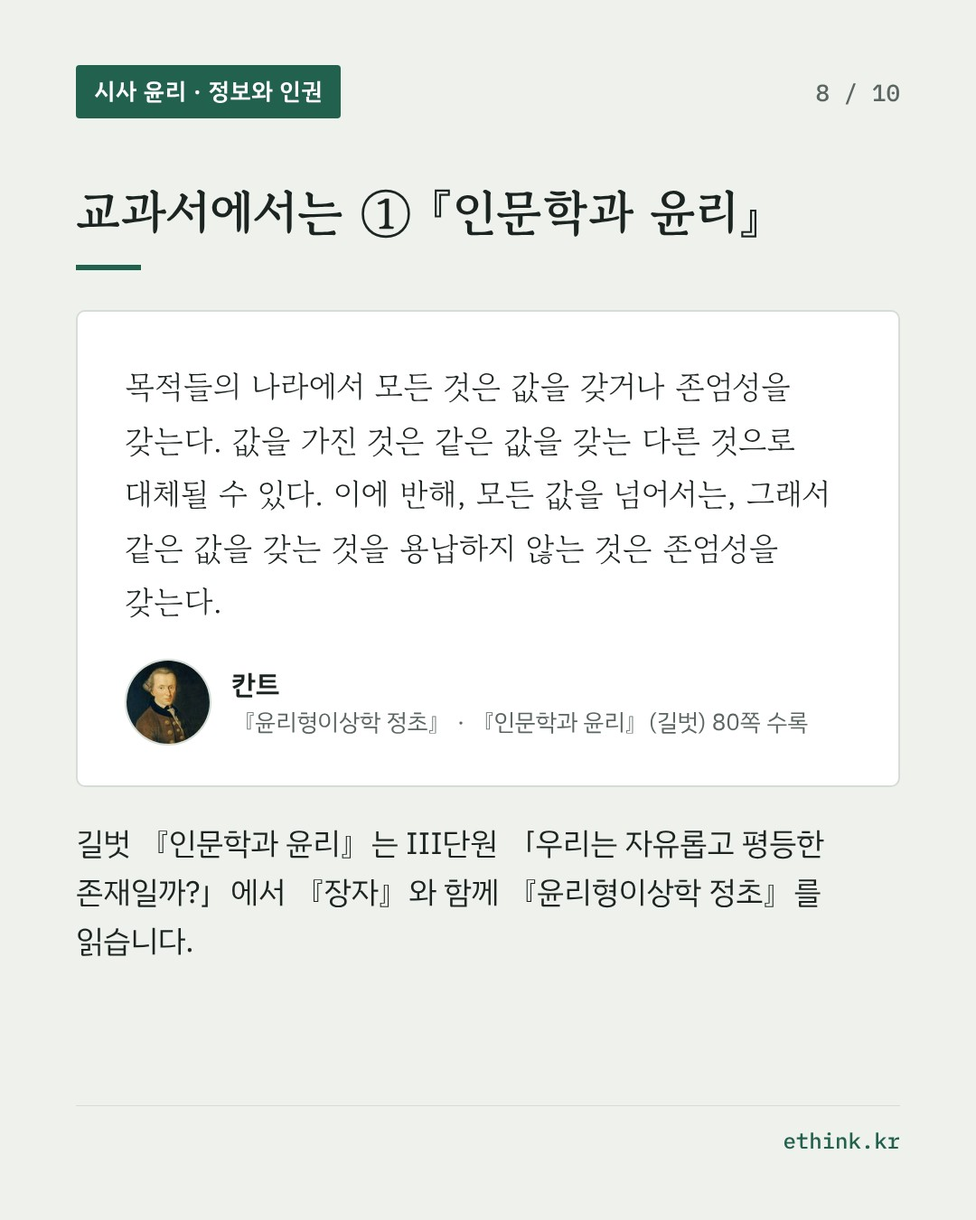
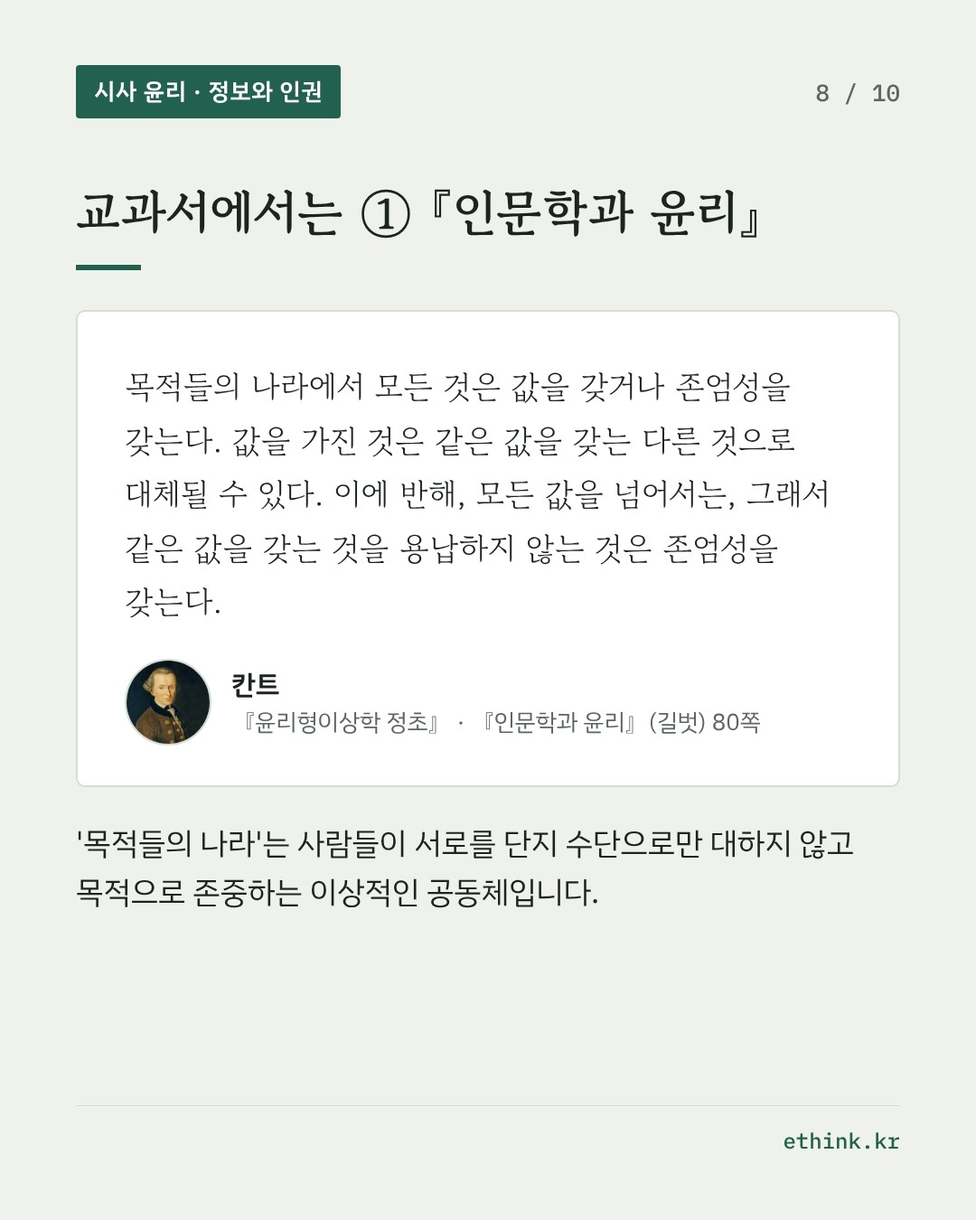
10.24 글 전면 수정(쉬운 문장, 사실 범위 구분, 도식 방향 표현 제거), 인용 출처는 번역서까지만·'수록' 삭제, 카드 10장 재제작(승인 전)
Claude-Session: https://claude.ai/code/session_015bQvLW38M9G43q7XUxVD63

Changed region(s): [[0.0611, 0.6844, 0.8556, 0.7778], [0.7944, 0.56, 0.825, 0.6222]]

diff --git a/assets/style.css b/assets/style.css
@@ -224,8 +224,9 @@ html { scroll-behavior: smooth; }
 .scale-cell-strong { outline: 2px solid var(--accent); outline-offset: -2px; }
 .scale-head { font-family: var(--font-display); font-weight: 700; font-size: var(--step-1); }
 .scale-ex { font-size: var(--step--1); color: var(--muted); }
+.scale-two { grid-template-columns: 1fr 1fr; }
 .scale-arrow { align-self: center; color: var(--accent); font-size: 1.25rem; }
-@media (max-width: 30rem) { .scale { grid-template-columns: 1fr; } .scale-arrow { transform: rotate(90deg); justify-self: center; } }
+@media (max-width: 30rem) { .scale, .scale-two { grid-template-columns: 1fr; } .scale-arrow { transform: rotate(90deg); justify-self: center; } }
 .tbl-wrap { overflow-x: auto; }
 .tbl { width: 100%; border-collapse: collapse; background: var(--surface); font-size: 0.9375rem; min-width: 26rem; }
 .tbl th, .tbl td { border: 1px solid var(--rule); padding: 0.55rem 0.7rem; text-align: left; vertical-align: top; word-break: keep-all; }

diff --git a/_items/2026-10-24/1.md b/_items/2026-10-24/1.md
@@ -16,80 +16,72 @@ sources:
     url: https://biz.sbs.co.kr/amp/article/20000340503
   - name: 뉴스핌 (10.16)
     url: https://www.newspim.com/news/view/20261016001208
-  - name: 데일리팜 (10.17)
+  - name: 데일리팜 (2014.10.17)
     url: https://m.dailypharm.com/user/news/134209
-  - name: 개인정보 보호법 시행령 제39조
-    url: https://itwiki.kr/w/%EA%B0%9C%EC%9D%B8%EC%A0%95%EB%B3%B4_%EB%B3%B4%ED%98%B8%EB%B2%95_%EC%8B%9C%ED%96%89%EB%A0%B9_%EC%A0%9C39%EC%A1%B0
+  - name: 개인정보 보호법 시행령 제39조 (국가법령정보센터)
+    url: https://www.law.go.kr/lsLinkProc.do?chrClsCd=010202&joLnkStr=%EC%98%81+%EC%A0%9C39%EC%A1%B0%EC%A0%9C1%ED%95%AD&joNo=003900000&lsId=011468&lsNm=%EA%B0%9C%EC%9D%B8%EC%A0%95%EB%B3%B4+%EB%B3%B4%ED%98%B8%EB%B2%95+%EC%8B%9C%ED%96%89%EB%A0%B9&mode=2
 og_image: /assets/og/2026-10-24-1.jpg
 ---
 ##### 무슨 일이 있었나
 
-10월 16일 국회 보건복지위원회의 국민건강보험공단 국정감사에서 공단의 개인정보 관리 문제가 다뤄졌습니다. 공단 직원 한 명이 약 2년 6개월 동안 건강보험 가입자와 그 가족(피부양자)의 정보를 외부에 넘기고 돈을 받은 사실이 드러나 7월에 파면되었습니다. 공단 측은 이 직원이 받은 돈이 "억대로 알고 있다"고 답했습니다. 사건은 아직 수사 중이고, 피해자에게는 석 달이 넘도록 유출 사실을 알리지 않았습니다.
+10월 16일 국회 보건복지위원회의 국민건강보험공단 국정감사에서 개인정보 관리 문제 세 가지가 나왔습니다.
 
-업무와 상관없이 가입자 정보를 들여다보는 무단 조회도 되풀이되고 있습니다. 2021년부터 올해 8월까지 무단 열람과 유출로 피해를 본 사람은 468명이고, 공단이 무단 조회를 알아채기까지 길게는 1,135일이 걸렸습니다. 2014년 국정감사에서는 한 직원이 헤어진 연인의 진료 내역을 113번 열어 본 사례가 지적되었습니다. 강청희 이사장은 업무 시간 중에 마음먹고 정보를 빼내는 경우는 잘 잡히지 않는다고 인정했습니다.
+**첫째, 정보를 외부에 넘기고 돈을 받은 직원이 있었습니다.** 공단 직원 한 명이 약 2년 6개월 동안 건강보험 가입자와 피부양자(가입자에게 생계를 의존하는 가족 등)의 정보를 외부에 넘기고 돈을 받은 혐의로 7월에 파면되었습니다. 공단 측은 받은 돈이 "억대로 알고 있다"고 답했습니다. 사건은 수사 중이고, 어떤 정보가 넘어갔는지는 아직 정확히 파악하지 못했다고 합니다.
+
+**둘째, 업무와 상관없이 정보를 들여다보는 무단 조회가 되풀이되었습니다.** 2021년부터 올해 8월까지 공단에서 무단 열람과 유출로 피해를 본 사람은 468명입니다. 이 숫자는 위의 직원 한 명이 아니라 여러 사건을 합친 것입니다. 일부 무단 조회는 처음 조회한 때부터 적발될 때까지 길게는 1,135일이 걸렸습니다. 강청희 이사장은 업무 시간에 마음먹고 정보를 빼내는 경우는 잘 잡히지 않는다고 인정했습니다. 2014년 국정감사에서는 한 직원이 헤어진 연인의 자격 조회 기록과 3년 치 요양급여 내역, 곧 병력과 소득이 드러나는 기록을 113번 열어 본 사례가 지적되었습니다.
+
+**셋째, 피해자에게 알리는 일이 늦어졌습니다.** 김기웅 의원은 수사 중이라는 이유로 석 달 넘게 피해자에게 통지가 이뤄지지 않았다고 지적했습니다. 공단은 피해 당사자가 아직 특정되지 않았다고 답했습니다.
 
 ##### 왜 윤리 문제인가
 
-건강보험공단에는 언제 어떤 병으로 병원에 갔는지, 무슨 수술을 받았는지까지 쌓여 있습니다. 이 정보는 우리가 맡길지 말지 고른 것이 아닙니다. 건강보험에 가입하면 저절로 쌓입니다. 「개인정보 보호법」 시행령은 유출을 알게 된 때부터 72시간 안에 그 정보의 본인에게 알리도록 정하고 있지만, 이번 사건의 피해자는 자기 정보가 새 나갔는지조차 모른 채 석 달을 보냈습니다.
+공단에는 가입자의 진료와 관련된 정보가 쌓입니다. 우리가 맡기기로 고른 것이 아니라, 건강보험 업무를 하는 과정에서 저절로 모이는 정보입니다. 이 정보를 몰래 열어 보거나 팔면, 당사자는 숨기고 싶은 사생활을 남에게 들키게 됩니다.
 
-이 사건이 던지는 물음은 이렇습니다. 감시가 닿지 않는 곳에서 볼 수 있는 권한을 가진 사람은, 그래도 보지 말아야 하는가. 이사장의 말처럼 업무 시간 중의 조회를 다 잡아낼 수 없다면, 남는 것은 들키지 않을 때에도 보지 않는 직원 한 사람 한 사람의 판단입니다. 이 물음은 2,400년 전 플라톤이 던졌고, 칸트는 들키느냐와 상관없이 무엇이 도덕적인 행동인지를 따졌습니다.
+법은 정보가 새 나간 것을 알게 되면 원칙적으로 72시간 안에 그 정보의 본인에게 알리도록 합니다(「개인정보 보호법 시행령」 제39조). 긴급한 조치가 필요하거나 부득이한 사정이 있으면 늦출 수 있습니다. 이번에 그런 사정이 있었는지는 확인되지 않았으므로, 통지가 늦어진 일이 위법인지는 단정할 수 없습니다. 다만 기관이 피해자를 찾으려고 얼마나 애썼는지, 그동안 피해를 줄일 조치를 했는지는 따져 볼 수 있습니다.
+
+직원 개인의 책임도 따로 있습니다. 업무상 정보에 접근할 수 있다는 것이 마음대로 봐도 된다는 뜻은 아닙니다. 열람 권한을 제한하고 이상한 조회를 찾아내는 제도가 필요하지만, 이사장의 말처럼 감시가 모든 조회를 잡아내지는 못합니다. 그래서 제도와 함께 권한을 쓰는 사람의 판단도 물어야 합니다.
+
+여기서 질문이 하나 생깁니다. **아무도 모르게 볼 수 있다면, 그래도 보지 말아야 할 이유는 무엇일까요?** 이 물음은 2,400년 전 플라톤이 던졌고, 칸트는 도덕적인 행동이 무엇인지를 따졌습니다.
 
 ##### 플라톤으로 읽기: 아무도 보지 않는다면
 
-먼저 플라톤입니다. 『국가』 1권에서 트라시마코스는 정의가 강자의 이익일 뿐이라고 주장하다 소크라테스와의 논쟁에서 물러섭니다. 2권에서 플라톤의 형 글라우콘은 이 주장을 다시 살려 냅니다. 소크라테스에게서 정의가 그 자체로 좋은 것이라는 말을 듣고 싶어서, 일부러 가장 강한 반론을 세우는 것입니다. 글라우콘은 먼저 사람들이 말하는 정의의 기원을 이렇게 정리합니다.
+『국가』 2권에서 글라우콘은 소크라테스에게 어려운 질문을 던집니다. 사람들은 정의가 좋아서 정의롭게 사는 것일까요, 벌이 두려워서일까요? 글라우콘은 정의가 그 자체로 좋다는 답을 듣고 싶어서, 일부러 반대편 주장을 가장 강하게 펼칩니다. 그의 반론은 이렇습니다. 사람들이 정의를 지키는 것은 서로 당하지 않으려고 약속했기 때문이고, 벌을 피할 수만 있다면 누구나 불의를 저지를 것이라는 주장입니다.
+
+이를 보이려고 꺼낸 이야기가 '기게스의 반지'입니다. 한 목동이 땅속에서 금반지를 발견합니다. 반지의 보석을 손 안쪽으로 돌리면 몸이 남에게 보이지 않게 됩니다. 목동은 이 힘으로 왕비와 손잡고 왕을 죽인 뒤 왕국을 차지합니다. 글라우콘은 이런 반지가 두 개 있어서 정의로운 사람과 정의롭지 못한 사람이 하나씩 낀다면 어떻게 될지 묻습니다.
 
 <figure class="src">
 <blockquote>
-<p>사람들이 서로들 올바르지 못한 짓을 저지르기도 하고 또 당하기도 하며, 그 양쪽 다를 겪어 보게 되었을 때, 한쪽은 피하되 다른 한쪽을 취하기가 불가능한 사람들로서는 서로간에 올바르지 못한 짓을 저지르거나 당하지 않도록 약정을 하는 것이 이익이 되겠다는 생각을 하게 된다고 말씀입니다. 또한 바로 이것이 연유가 되어, 사람들은 자신들의 법률과 약정을 제정하기 시작했으며, 이 법에 의한 지시를 합법적이며 올바르다고 한다는 겁니다.</p>
+<p>만약에 이런 반지가 두 개 생겨서 하나는 올바른 사람이, 그리고 다른 하나는 올바르지 못한 사람이 끼게 된다면, 그런 경우에 올바름 속에 머무르면서 남의 것을 멀리하고 그것에 손을 대지 않을 정도로 그처럼 철석 같은 마음을 유지할 사람은 아무도 없을 것같이 생각됩니다. (…) 양쪽 다가 똑같은 방향으로 갈 겁니다.</p>
 </blockquote>
-<figcaption>플라톤, 『국가·정체』(박종현 역주, 서광사, 1997) 2권 358e~359a</figcaption>
+<figcaption>플라톤, 『국가·정체』(박종현 역주, 서광사)</figcaption>
 </figure>
 
-글라우콘에 따르면 정의는 남에게 해를 당하기 싫어서 맺은 약속입니다. 그러니 사람들이 정의를 지키는 것은 정의가 좋아서가 아니라, 불의를 저지르고도 벌을 피할 힘이 없어서입니다. 이를 보이려고 글라우콘은 하나의 사고 실험을 꺼냅니다. 리디아의 목동 기게스는 지진으로 갈라진 땅속에서 청동 말을 발견하고, 그 안에 있던 송장의 손가락에서 금반지를 빼 옵니다.
+이 반론은 이렇게 묻습니다. 벌과 비난을 피할 수 있다면, 그래도 정의롭게 살아야 할 이유가 있을까요? 공단의 조회 기록은 남기 때문에 직원이 정말 투명 인간이 되는 것은 아닙니다. 다만 무단 조회를 알아채는 데 길게는 1,135일이 걸린 적이 있다는 것은, 잘못이 오랫동안 드러나지 않을 수 있다는 뜻입니다. 이 점에서 반지 이야기를 이번 사건과 이어서 생각해 볼 수 있습니다.
 
-<figure class="src">
-<blockquote>
-<p>다른 사람들과 함께 자리에 앉아 있던 그는 우연히도 반지의 보석받이(거미발)를 자신을 향해 손 안쪽으로 돌렸는데, 이 일이 있자 그 자신이 동석한 사람들에게 보이지 않게 되어, 그들은 그에 관해서 마치 떠나 버린 사람에 관해서 말하듯 대화를 하였다죠.</p>
-</blockquote>
-<figcaption>플라톤, 『국가·정체』(박종현 역주, 서광사, 1997) 2권 359e~360a</figcaption>
-</figure>
-
-반지의 힘을 확인한 기게스는 왕궁으로 가는 사자들 틈에 끼어 왕비와 손잡고 왕을 죽인 뒤 왕국을 차지합니다. 글라우콘은 이 반지가 두 개 있어서 올바른 사람과 올바르지 못한 사람이 하나씩 낀다면, 두 사람이 다르게 행동하지 않을 것이라고 말합니다.
-
-<figure class="src">
-<blockquote>
-<p>만약에 이런 반지가 두 개 생겨서 하나는 올바른 사람이, 그리고 다른 하나는 올바르지 못한 사람이 끼게 된다면, 그런 경우에 올바름 속에 머무르면서 남의 것을 멀리하고 그것에 손을 대지 않을 정도로 그처럼 철석 같은 마음을 유지할 사람은 아무도 없을 것같이 생각됩니다. (…) 이처럼 행동할진대, 그는 다른 한쪽 사람과 조금도 다를 것이 없을 것이고, 양쪽 다가 똑같은 방향으로 갈 겁니다.</p>
-</blockquote>
-<figcaption>플라톤, 『국가·정체』(박종현 역주, 서광사, 1997) 2권 360b~c</figcaption>
-</figure>
-
-글라우콘은 한 걸음 더 나아갑니다. 가장 올바르지 못한 사람은 들키지 않는 사람이라는 것입니다. 그는 "최상급의 올바르지 못함은 실제로는 올바르지 않으면서 올바른 듯이 보이는 것이니까요."라고 말합니다(361a). 업무 시간 중에 마음먹고 정보를 빼낸 공단 직원은 오랫동안 성실한 직원으로 보였을 것입니다. 무단 조회를 알아채는 데 1,135일이 걸리는 조직에서 직원은 기게스의 반지를 낀 것과 같은 처지에 놓입니다.
-
-소크라테스는 『국가』의 남은 부분 전체를 들여 이 도전에 답합니다. 그리고 마지막 10권에서 반지 이야기로 돌아옵니다.
+소크라테스는 『국가』의 나머지 부분 전체를 들여 대답합니다. 정의는 남에게 보이는 모습이 아니라 내 영혼이 건강한 상태라는 것입니다. 이성이 욕망을 이끌고 영혼의 각 부분이 제 역할을 하는 상태인데, 이익을 위해 이 질서를 무너뜨리면 남이 몰라도 자기 자신에게 해롭다고 봅니다. 마지막 10권에서 그는 반지 이야기로 돌아와 이렇게 말합니다.
 
 <figure class="src">
 <blockquote>
 <p>우리는 '올바름'이 그 자체로 혼 자체를 위해서 최선의 것임을 알게 되었으며, 혼으로서는, 자기가 '기게스의 반지'를 가졌건 갖지 않았건 간에, 그리고 그런 반지에 더하여 '보이지 않게 하는 (하데스의) 모자'를 가졌건 갖지 않았건 간에, 올바른 것들을 행하여야만 한다는 것도 알게 되지 않았는가?</p>
 </blockquote>
-<figcaption>플라톤, 『국가·정체』(박종현 역주, 서광사, 1997) 10권 612b</figcaption>
+<figcaption>플라톤, 『국가·정체』(박종현 역주, 서광사)</figcaption>
 </figure>
 
-여기서 '혼'은 영혼을 뜻합니다. 몰래 해도 아무도 모르는 반지가 있든 없든, 사람은 올바르게 행동해야 한다는 말입니다.
+여기서 '혼'은 영혼입니다. 반지가 있든 없든, 남에게 보이든 보이지 않든 올바르게 행동해야 한다는 말입니다. 이 생각을 이번 사건에 적용하면, '무단 조회를 어떻게 잡아낼까'와 함께 '남의 사생활을 존중하는 사람으로 일하려면 무엇이 필요할까'도 물을 수 있습니다.
 
-소크라테스에게 정의는 남과 맺은 약속이 아니라 내 영혼이 건강한 상태입니다. 들키지 않고 남의 정보를 훔쳐보는 사람은 벌은 피할지 몰라도 자기 영혼을 망가뜨립니다. 글라우콘의 눈으로 보면 이 사건의 해법은 더 촘촘한 감시입니다. 소크라테스의 눈으로 보면 감시가 닿지 않는 곳에서도 보지 않는 사람을 길러 내는 일이 먼저입니다.
+##### 칸트로 읽기: 규칙을 지키는 이유
 
-##### 칸트로 읽기: 들키느냐와 상관없이
-
-다음은 칸트입니다. 칸트는 『윤리형이상학 정초』에서 어떤 행위가 도덕적 가치를 갖는 조건을 묻습니다. 그가 든 예는 가게 주인입니다.
+칸트는 『윤리형이상학 정초』에서 행동의 겉모습이 아니라 그렇게 행동한 이유를 봅니다. 그가 든 예는 손님에게 바가지를 씌우지 않는 가게 주인입니다.
 
 <figure class="src">
 <blockquote>
-<p>예컨대 가게 주인이 어리숙한 고객에게 바가지를 씌우지 않는 것은 물론 의무에 맞는 일이다. 그리고 거래가 많은 곳에서는 영리한 상인 역시 이런 짓을 하지 않으며, 모든 사람에게 고정된 일반 가격을 지킴으로써, 어린 아이도 다른 모든 사람과 마찬가지로 제값에 물건을 사게 된다. 그러므로 사람들은 정직하게 대접받은 것이다. 그러나 그렇다고 해서, 그 상인이 의무로부터, 그리고 정직의 원칙들에서 그렇게 처신한다고 믿기에는 아직 불충분하다. 그의 이익이 그것을 요구했을 수도 있는 것이다.</p>
+<p>예컨대 가게 주인이 어리숙한 고객에게 바가지를 씌우지 않는 것은 물론 의무에 맞는 일이다. (…) 그러나 그렇다고 해서, 그 상인이 의무로부터, 그리고 정직의 원칙들에서 그렇게 처신한다고 믿기에는 아직 불충분하다. 그의 이익이 그것을 요구했을 수도 있는 것이다.</p>
 </blockquote>
-<figcaption>칸트, 『윤리형이상학 정초』(백종현 옮김, 아카넷, 2005) B9</figcaption>
+<figcaption>칸트, 『윤리형이상학 정초』(백종현 옮김, 아카넷)</figcaption>
 </figure>
 
-칸트는 겉으로 옳은 행동과 옳기 때문에 하는 행동을 나눕니다. 앞의 것을 '의무에 맞는 행위', 뒤의 것을 '의무로부터 나온 행위'라고 부릅니다. 바가지를 씌우지 않은 가게 주인의 행동은 겉으로 옳지만, 손님이 끊길까 걱정해서 그랬다면 도덕적 가치는 없습니다. 조회 기록이 감시되고 있어서 가입자 정보를 열어 보지 않는 직원도 마찬가지입니다. 그 직원은 의무에 맞게 행동했지만, 감시가 사라지면 언제든 행동이 달라질 수 있습니다. 칸트가 묻는 것은 감시가 없을 때에도 지켜지는 원칙입니다.
+가게 주인이 손님을 속이지 않는 이유는 두 가지일 수 있습니다. 속이는 것이 옳지 않아서일 수도 있고, 소문이 나서 장사가 안될까 봐일 수도 있습니다. 겉으로 한 행동은 똑같습니다. 칸트는 옳기 때문에 하는 행동을 '의무로부터 나온 행위'라 하고, 규칙에는 맞지만 다른 이유로 하는 행동을 '의무에 맞는 행위'라고 합니다. 도덕적 가치가 있는 쪽은 앞의 경우입니다.
+
+개인정보를 다루는 직원도 마찬가지입니다. **오직 처벌이 두려워서만** 무단 조회를 하지 않았다면, 규칙에는 맞게 행동했어도 의무로부터 행동한 것은 아닙니다. 물론 감시가 있다고 해서 그 직원이 처벌 때문에만 참았다고 단정할 수는 없습니다. 사생활을 존중해야 한다고 믿어서 지키는 직원도 있습니다.
 
 그렇다면 감시가 없어도 지켜야 할 원칙은 무엇일까요. 칸트는 이렇게 말합니다.
 
@@ -97,65 +89,65 @@ og_image: /assets/og/2026-10-24-1.jpg
 <blockquote>
 <p>네가 너 자신의 인격에서나 다른 모든 사람의 인격에서 인간(성)을 항상 동시에 목적으로 대하고, 결코 한낱 수단으로 대하지 않도록, 그렇게 행위하라.</p>
 </blockquote>
-<figcaption>칸트, 『윤리형이상학 정초』(백종현 옮김, 아카넷, 2005) B66~67</figcaption>
+<figcaption>칸트, 『윤리형이상학 정초』(백종현 옮김, 아카넷)</figcaption>
 </figure>
 
-이 말은 사람을 내 목적을 이루는 수단으로만 쓰지 말고, 그 사람 자신의 삶과 목적을 가진 존재로 대하라는 뜻입니다. 헤어진 연인의 진료 기록을 몰래 열어 보는 일은 그 사람이 겪은 아픔을 내 호기심을 채우는 데 쓰는 일입니다. 가입자 정보를 돈을 받고 넘기는 일은 그 정보에 담긴 사람의 삶을 내 이익을 위한 물건처럼 쓰는 일입니다. 둘 다 정보 속의 사람을 수단으로만 대합니다. 칸트에게 이 일은 들키느냐와 상관없이 그 자체로 그릇된 일입니다. 글라우콘에게 정의는 처벌이 두려워 지키는 규칙이지만, 칸트에게는 스스로 지켜야 할 의무입니다.
+다른 사람을 내 목적을 이루는 도구로만 쓰지 말고, 자기 삶과 목적을 가진 존재로 대하라는 뜻입니다. 도움을 주고받는 것 자체를 막는 말이 아니라, 사람을 오직 도구로만 쓰는 것이 문제라는 말입니다.
 
-『인문학과 윤리』(길벗)는 Ⅲ단원 「우리는 자유롭고 평등한 존재일까?」에서 『장자』와 함께 『윤리형이상학 정초』를 읽습니다. 교과서는 모든 사람을 존중하라는 법칙과 '목적들의 나라'를 다음 대목으로 소개합니다. '목적들의 나라'는 모든 사람이 서로를 수단이 아니라 목적으로 대하는 사회를 뜻합니다.
+이 원칙에 비추어 보면 두 경우가 모두 문제입니다. 헤어진 연인의 병력과 소득이 드러나는 기록을 몰래 열어 보는 일은 그 사람의 사생활을 내 호기심을 채우는 데 쓰는 일입니다. 가입자 정보를 돈을 받고 넘기는 일은 정보에 담긴 사람의 삶을 내 이익을 위한 물건처럼 쓰는 일입니다. 둘 다 정보 속 당사자를 도구로만 대합니다. 이 판단은 감시가 있든 없든 달라지지 않습니다.
+
+『인문학과 윤리』(길벗)에는 『윤리형이상학 정초』의 이 대목이 실려 있습니다. 교과서는 모든 사람을 목적으로 대하라는 법칙과 '목적들의 나라'를 다음 글로 소개합니다. '목적들의 나라'는 사람들이 서로를 단지 수단으로만 대하지 않고 목적 그 자체로 존중하는 이상적인 공동체입니다.
 
 <figure class="src">
 <blockquote>
-<p>이성적 존재자들은 모두 자기 자신과 다른 모든 이를 결코 한낱 수단이 아니라, 항상 동시에 목적 그 자체로서 대해야 한다는 법칙 아래에 서 있다. 이를 통해 '목적들의 나라'라고 부를 수 있는 하나의 나라가 생긴다.</p>
 <p>목적들의 나라에서 모든 것은 값을 갖거나 존엄성을 갖는다. 값을 가진 것은 같은 값을 갖는 다른 것으로 대체될 수 있다. 이에 반해, 모든 값을 넘어서는, 그래서 같은 값을 갖는 것을 용납하지 않는 것은 존엄성을 갖는다.</p>
 </blockquote>
-<figcaption>칸트, 『윤리형이상학 정초』 · 『인문학과 윤리』(길벗) 80쪽 수록</figcaption>
+<figcaption>칸트, 『윤리형이상학 정초』 · 『인문학과 윤리』(길벗) 80쪽</figcaption>
 </figure>
 
-교과서는 이 대목을 "나 또는 다른 사람을 어떠한 목적을 이루기 위한 도구로 사용하고 있는지 반성하고, 인간의 존엄성을 추구해야 할 궁극적 목적이자 가치로 삼아야 한다는 것"으로 풀이합니다. 또 "존엄성은 값을 매길 수 없는 것이며, 이용 가치로 평가될 수 없는 절대적인 가치"라고 설명합니다(80~81쪽). 이번 사건에서 직원은 가입자의 건강 정보에 값을 매겨 팔았습니다. 칸트의 눈으로 보면 팔린 것은 정보만이 아니라 가입자 한 사람 한 사람의 존엄입니다.
+물건은 같은 값의 다른 물건으로 바꿀 수 있지만, 사람은 다른 무엇으로도 대신할 수 없다는 뜻입니다. 교과서는 이 대목을 "나 또는 다른 사람을 어떠한 목적을 이루기 위한 도구로 사용하고 있는지 반성하고, 인간의 존엄성을 추구해야 할 궁극적 목적이자 가치로 삼아야 한다는 것"이라고 풀이합니다(80~81쪽). 이번 사건에서 정보를 다룬 사람은 가입자를 자기 이익을 위한 수단으로만 대했고, 가입자의 존엄성을 존중할 의무를 저버렸다고 볼 수 있습니다.
 
 ##### 수업에서 쓰는 법
 
-플라톤과 칸트의 생각을 나란히 놓으면, 개인정보를 지키는 방법도 두 가지로 정리할 수 있습니다.
+이 사례에서는 기관의 제도와 직원의 직업윤리를 함께 살펴봅니다. 둘 중 하나를 고르게 하기보다, 각각 어떤 역할을 하고 어디에 한계가 있는지 비교하게 합니다.
 
 <figure class="fig">
 <p class="fig-title">개인정보를 지키는 두 가지 방법</p>
-<div class="scale">
-<div class="scale-cell"><p class="scale-head">들키지 않게 막는다</p><p>감시와 처벌로 부정을 억누른다</p><p class="scale-ex">조회 기록 상시 탐지, 즉시 파면</p></div>
-<div class="scale-arrow" aria-hidden="true">→</div>
-<div class="scale-cell scale-cell-strong"><p class="scale-head">들키지 않아도 하지 않는다</p><p>정보 속의 사람을 수단으로만 대하지 않는다</p><p class="scale-ex">권한을 업무 목적에만 쓰는 직업윤리</p></div>
+<div class="scale scale-two">
+<div class="scale-cell"><p class="scale-head">제도로 지킨다</p><p>무단 조회를 예방하고 찾아낸다</p><p class="scale-ex">열람 권한 제한, 이상 조회 탐지, 사안에 맞는 제재</p></div>
+<div class="scale-cell"><p class="scale-head">사람이 지킨다</p><p>권한을 업무 목적에만 쓴다</p><p class="scale-ex">직업윤리 교육, 문제를 발견하면 보고</p></div>
 </div>
-<p class="fig-note">왼쪽은 글라우콘의 생각에, 오른쪽은 소크라테스와 칸트의 생각에 가깝습니다.</p>
+<p class="fig-note">제도는 모든 조회를 잡아내지 못하고, 사람의 판단은 모든 사람에게 기대할 수 없다는 한계가 각각 있습니다.</p>
 </figure>
 
 <figure class="fig">
 <p class="fig-title">수업 흐름</p>
 <ol class="flow">
-<li><span class="flow-step">사례 읽기</span><br>
-<span class="flow-desc">기사에서 세 가지 사실을 나눠 정리한다. ① 직원이 돈을 받고 가입자 정보를 넘긴 일 ② 업무와 상관없이 가입자 정보를 들여다본 무단 조회 ③ 석 달 넘게 피해자에게 유출 사실을 알리지 않은 일</span></li>
-<li><span class="flow-step">사상가로 읽기</span><br>
-<span class="flow-desc">사례를 두 사상가로 다시 읽는다. 글라우콘의 도전과 소크라테스의 대답: 아무도 모르게 볼 수 있다면 사람은 보지 않을 수 있는가 / 칸트: 겉으로 옳은 행동과 옳기 때문에 하는 행동은 어떻게 다른가, 들키지 않더라도 남의 정보를 보는 일은 왜 그릇된가</span></li>
-<li><span class="flow-step">제도 설계하기</span><br>
-<span class="flow-desc">모둠별로 공단 이사장이 되어 아래 표의 문제마다 바꿀 제도를 정하고, 그 제도로도 막지 못하는 한계를 적는다</span></li>
-<li><span class="flow-step">모둠 토론하기</span><br>
-<span class="flow-desc">논제: 개인정보를 지키려면 먼저 필요한 것은 무엇인가. 가) 촘촘한 감시와 엄한 처벌 나) 정보를 다루는 사람의 직업윤리</span></li>
+<li><span class="flow-step">사례 구분하기</span><br>
+<span class="flow-desc">기사에서 세 가지를 나눠 정리한다. ① 직원이 정보를 외부에 넘기고 돈을 받은 혐의로 파면된 일 ② 업무와 상관없는 무단 조회와 늦은 적발 ③ 피해자 통지가 늦어진 일. 이번 사건에서 확인된 내용, 여러 사건을 합친 통계, 아직 확인되지 않은 내용을 구분해 표시한다</span></li>
+<li><span class="flow-step">철학자의 질문으로 다시 읽기</span><br>
+<span class="flow-desc">글라우콘: 벌을 피할 수 있어도 정의를 지킬 이유가 있는가 / 소크라테스: 정의는 나 자신에게 왜 좋은가 / 칸트: 규칙에 맞게 행동하는 것과 옳기 때문에 행동하는 것은 어떻게 다른가, 남의 정보를 내 호기심이나 이익에 쓰는 일은 왜 문제인가</span></li>
+<li><span class="flow-step">기관의 대응 설계하기</span><br>
+<span class="flow-desc">모둠별로 공단 운영을 맡았다고 가정한다. 아래 표의 문제마다 필요한 제도를 정하고, 그 제도로 해결되지 않는 한계와 보완 방법을 적는다</span></li>
+<li><span class="flow-step">토론하고 종합안 만들기</span><br>
+<span class="flow-desc">논제: 개인정보를 지키려면 기관은 어떤 제도와 직업윤리를 함께 갖추어야 하는가. 제도를 중심으로 한 모둠과 직업윤리를 중심으로 한 모둠이 서로 질문한 뒤, 지적을 반영해 종합안을 고쳐 낸다</span></li>
 </ol>
 </figure>
 
 <table class="tbl tbl-cols">
-<colgroup><col style="width:28%"><col style="width:36%"><col style="width:36%"></colgroup>
-<thead><tr><th>문제</th><th>바꿀 제도</th><th>그래도 남는 한계</th></tr></thead>
+<colgroup><col style="width:30%"><col style="width:35%"><col style="width:35%"></colgroup>
+<thead><tr><th>점검할 문제</th><th>필요한 제도</th><th>남는 한계와 보완 방법</th></tr></thead>
 <tbody>
-<tr class="tbl-ex"><td>볼 수 있는 사람이 너무 많다</td><td>업무에 꼭 필요한 직원에게만 열람 권한을 준다</td><td>권한을 가진 사람이 마음먹으면 막기 어렵다</td></tr>
-<tr><td>무단 조회를 늦게 알아챈다</td><td></td><td></td></tr>
-<tr><td>피해자가 유출 사실을 모른다</td><td></td><td></td></tr>
+<tr class="tbl-ex"><td>열람 권한이 업무에 필요한 범위로 제한되어 있는가</td><td>업무에 꼭 필요한 직원에게만 권한을 주고, 업무가 바뀌면 다시 점검한다</td><td>권한이 있는 직원이 마음먹으면 막기 어렵다. 조회 기록 점검과 직업윤리 교육을 함께 한다</td></tr>
+<tr><td>무단 조회를 빨리 찾아내려면 무엇이 필요한가</td><td></td><td></td></tr>
+<tr><td>유출 범위를 조사하는 동안 피해자를 어떻게 보호할 것인가</td><td></td><td></td></tr>
 </tbody>
 </table>
 
-첫 줄은 예시로 보여 주고, 나머지 칸은 모둠이 채웁니다. "그래도 남는 한계" 칸을 채우고 나면 자연스럽게 토론으로 넘어갈 수 있습니다.
+첫 줄은 예시로 보여 주고, 나머지 칸은 모둠이 채웁니다. 한계를 적는 데서 그치지 않고 그 한계를 줄일 방법까지 찾게 합니다.
 
-토론에서는 정답을 정해 두지 않고 질문을 열어 둡니다. 감시와 처벌을 고른 모둠은 '모든 조회를 지켜볼 수 없다면 감시 밖에서 일어나는 일은 어떻게 막는가'에 답합니다. 직업윤리를 고른 모둠은 '양심에 맡겼을 때 지키지 않는 사람은 어떻게 하는가'에 답합니다. 두 방법이 서로를 대신할 수 없고 함께 가야 한다는 점을 확인하는 것이 이 토론의 목표입니다.
+토론에서는 서로의 방안에 질문하게 합니다. 제도를 내세운 모둠에는 "탐지를 피하거나 권한을 악용하는 경우는 어떻게 줄이나요?"라고, 직업윤리를 내세운 모둠에는 "원칙을 지키지 않는 사람은 어떻게 발견하고 대응하나요?"라고 묻습니다. 두 모둠 모두에게는 "이미 피해가 생겼다면 당사자를 어떻게 보호하나요?"라고 묻습니다. 평가할 것은 어느 쪽을 골랐는지가 아니라, 근거와 한계, 보완 방법을 얼마나 구체적으로 설명했는지입니다.
 
-이 사례로 탐구 보고서를 쓰려는 학생에게는 세 가지 주제를 권합니다. 첫째, 공공기관 직원에게 개인정보 열람 권한을 어디까지 주어야 하는지 따져 보는 주제입니다. 둘째, 기게스의 반지 이야기로 익명성이 보장되는 온라인 공간의 윤리를 검토하는 주제입니다. 셋째, 수사 중이라는 이유로 피해자 통지를 미룬 일이 정당한지 정보 당사자의 권리로 따져 보는 주제입니다.
+이 사례로 탐구 보고서를 쓰려는 학생에게는 세 가지 주제를 권합니다. 첫째, 공공기관 직원의 개인정보 열람 권한을 업무에 필요한 범위로 제한하려면 어떤 기준이 필요한지 따져 보는 주제입니다. 둘째, 기게스의 반지 이야기를 온라인의 익명성과 연결해 보고, 연결되는 점과 연결되지 않는 점을 살피는 주제입니다. 셋째, 수사기관의 비공개 요청 같은 사정이 있을 때 기관이 수사 협조와 피해자 보호를 어떻게 함께 책임져야 하는지 정보 당사자의 권리로 따져 보는 주제입니다.
 
-마무리 질문은 학생에게 돌려줍니다. 내 기록이 쌓여 있는 곳에서 누군가 몰래 그 기록을 열어 보았다면, 나는 그 사람과 그 기관에 무엇을 요구할 수 있는가.
+마무리 질문은 학생에게 돌려줍니다. 기관이 보관하는 내 기록을 누군가 업무와 상관없이 몰래 열어 보았다면, 나는 그 사람과 기관에 무엇을 요구할 수 있는가.

diff --git a/_tools/WRITING_GUIDE.md b/_tools/WRITING_GUIDE.md
@@ -33,9 +33,9 @@
 - 불확실한 부분은 초안 보고에 "확인 필요"로 따로 적는다(본문에 지어 넣지 않는다).
 
 ## 4. 사상가 원문
-- 사상가가 나오면 원문을 함께 싣는다: `<figure class="src"><blockquote><p>원문</p></blockquote><figcaption>사상가, 『책』(옮긴이 옮김, 출판사, 연도) · 교과서/단행본 수록 위치</figcaption></figure>`. 두 입장 비교는 `<div class="vs">` 안에 figure 두 개, 각 figure에 `<p class="vs-head">입장 · 사상가</p>`.
+- 사상가가 나오면 원문을 함께 싣는다: `<figure class="src"><blockquote><p>원문</p></blockquote><figcaption>사상가, 『책』(옮긴이 옮김, 출판사) · 교과서 쪽수</figcaption></figure>`. 두 입장 비교는 `<div class="vs">` 안에 figure 두 개, 각 figure에 `<p class="vs-head">입장 · 사상가</p>`.
 - 원문은 반드시 실제 텍스트에서 가져온다: 재형 님 옵시디언 볼트 `Vault/_library/`(책 OCR 원문, 읽기 전용)와 `Vault/textbook/`, 또는 확인 가능한 공개 원문. 기억으로 쓰거나 다듬어 만든 문장을 원문처럼 싣지 않는다. 찾지 못하면 그 자리에 `[원문 확인 필요: 사상가, 책, 찾을 대목]`을 남기고 보고한다.
-- 교과서 수록 원문이면 교과서와 사상가 책을 모두 출처로 적는다. 교과서는 『인문학과 윤리』(길벗) 80쪽 수록처럼 책 이름과 **쪽수**만 적고, 단원 이름이나 코너 이름(「사상으로 보는 윤리문제」, 「나의 인문학 노트」 등)은 적지 않는다. 쪽수는 Dropbox/AI 작업실/교과서 pdf로 콘텐츠 제작/의 교과서 PDF(한쪽보기)에서 pdftotext로 문장을 찾아 그 쪽에 인쇄된 번호로 확인한다. 단행본 『윤리 사상가로 읽는 통합사회』도 같은 방식으로 쪽수만 적는다(PDF: Dropbox/_드롭 창고/윤리 사상가로 읽는 통합사회 단행본 전체(표지포함).pdf, 두 쪽 펼침이라 인용문이 있는 쪽의 번호를 쓴다). 교과서가 아니면 사상가의 어느 책인지 밝힌다.
+- 교과서 수록 원문이면 교과서와 사상가 책을 모두 출처로 적는다. 교과서는 『인문학과 윤리』(길벗) 80쪽처럼 (「수록」은 쓰지 않는다) 책 이름과 **쪽수**만 적고, 단원 이름이나 코너 이름(「사상으로 보는 윤리문제」, 「나의 인문학 노트」 등)은 적지 않는다. 쪽수는 Dropbox/AI 작업실/교과서 pdf로 콘텐츠 제작/의 교과서 PDF(한쪽보기)에서 pdftotext로 문장을 찾아 그 쪽에 인쇄된 번호로 확인한다. 단행본 『윤리 사상가로 읽는 통합사회』도 같은 방식으로 쪽수만 적는다(PDF: Dropbox/_드롭 창고/윤리 사상가로 읽는 통합사회 단행본 전체(표지포함).pdf, 두 쪽 펼침이라 인용문이 있는 쪽의 번호를 쓴다). 교과서가 아니면 사상가의 어느 책인지 밝힌다.
 - 원문을 찾는 순서: ① 볼트 `Vault/_library/`(재형 님 도서관 라이브러리)와 기출 문제 원문 자료집 → ② 실제 한국어 번역서에 실린 문장 → ③ 원어 원문을 검색해 직접 번역(번역했음을 출처에 밝힌다).
 - 출처에 타사 교과서 출판사 이름을 쓰지 않는다. 타사 교과서를 써야 하면 출판사 이름은 빼고 과목과 단원만 밝힌다(예: 「현대사회와 윤리」 교과서 '직업 생활과 윤리' 단원 수록).
 
@@ -50,7 +50,7 @@
   - **세 가지 연재**: 시사 윤리(화·목·토, 녹색), 윤리로 읽는 책(종이색), 편집자 노트(가끔, 흰 종이에 남색). 편집자 노트는 사이트에 올리지 않는 인스타그램 전용 게시물로, `_notes/YYYY-MM-DD-이름.yml` 하나에 approved·no(№1…)·caption·cards를 모두 쓴다. 표지는 그림 없이 kicker·hook·sub·by. 안쪽은 프로젝트 썸원처럼 notes(번호 붙은 짧은 문단) 위주. 문장은 재형 님이 말한 것·재형 님 서평과 메모에 있는 것만 쓰고, 경험을 지어내지 않는다. 카드: `node _tools/ig-cards.cjs _notes/….yml`, 게시: 승인 뒤 「인스타그램 수동 작업」에 파일 경로를 넣어 실행.
   - 디자인: 시사 글은 연한 녹색 바탕·진한 녹색 표지, 책 글은 종이색 바탕·벽돌색 표지. 모든 카드 왼쪽 위 같은 자리에 분류(「시사 윤리 · 정보와 인권」, 「윤리로 읽는 책 · 지은이」), 하단에는 작게 ethink.kr만 둔다(Ethink 글자 넣지 않음).
   - 표지: 그림 한 장 위에 질문 한 줄(hook, 25자 안팎). 그림은 저작권이 풀린 명화·판화(위키미디어 커먼즈, 레이크스미술관·메트로폴리탄 CC0 등)나 사상가 초상, 재형 님이 찍은 사진만 쓴다. 보도사진은 쓰지 않는다. 받은 그림은 `assets/art/`에 두고 credit에 "작품명, 시대·작가 · 퍼블릭 도메인/CC0"를 적는다. 책 글에 그림이 없으면 책 표지가 가운데 들어간다.
-  - 카드 문안 `_items/YYYY-MM-DD/ig-cards-N.yml`을 쓴다(본보기 `_items/2026-10-24/ig-cards-1.yml`, 형식은 `_tools/ig-cards.cjs` 머리말). 기본 구성(본보기 10장): ① cover(sub에 사건 한두 문장) ②~⑤ 첫 사상가: 원문 quote, 이야기 풀이(그림), 원문 quote(note에 사건의 수치·사실을 이어 붙임), 반대편 또는 대답 ⑥⑦ 둘째 사상가 원문 quote 2장 ⑧⑨ 교과서에서는(교과서 수록 원문 quote, 교과서 풀이 notes) ⑩ end 이번 주 질문. 원문은 도서관 번역서·교과서 텍스트에서 그대로 옮기고(원어 괄호 표기만 뺄 수 있음) 출처에 권·스테파누스 쪽수나 B판 쪽수를 적는다. 핵심 말은 **굵게**.
+  - 카드 문안 `_items/YYYY-MM-DD/ig-cards-N.yml`을 쓴다(본보기 `_items/2026-10-24/ig-cards-1.yml`, 형식은 `_tools/ig-cards.cjs` 머리말). 기본 구성(본보기 10장): ① cover(sub에 사건 한두 문장) ②~⑤ 첫 사상가: 원문 quote, 이야기 풀이(그림), 원문 quote(note에 사건의 수치·사실을 이어 붙임), 반대편 또는 대답 ⑥⑦ 둘째 사상가 원문 quote 2장 ⑧⑨ 교과서에서는(교과서 수록 원문 quote, 교과서 풀이 notes) ⑩ end 이번 주 질문. 원문은 도서관 번역서·교과서 텍스트에서 그대로 옮기고(원어 괄호 표기만 뺄 수 있음) 출처에는 번역서(책 이름, 지은이, 옮긴이, 출판사)까지만 적는다. 번역서 쪽수와 원전의 권·스테파누스·B판 쪽수는 적지 않는다. 핵심 말은 **굵게**.
   - 「윤리로 읽는 책」은 문안을 `_reads/ig/<글 파일이름>.yml`에 두고 ② 대신 book(표지 작게, "표지 이미지: 알라딘" 자동)과 underline(밑줄 1~2개) 카드를 쓴다. 책 글 카드는 자동 게시하지 않는다(재형 님이 따로 올림).
   - 생존 인물은 사이트와 같이 머리글자 원으로 둔다(faces.yml).
   - **승인**: 문안 파일 첫 줄 근처 `approved: false`로 만든다. 재형 님께 카드 이미지 전부와 캡션을 보여 드리고 승인을 받은 뒤에만 `approved: true`로 바꿔 main에 넣는다. `approved: true`가 아니면 자동 게시 도구가 올리지 않는다.
@@ -68,3 +68,10 @@
 
 - 「윤리로 읽는 책」 글에는 실제 책 표지를 넣는다. 알라딘(우선)·예스24·교보문고 상품 페이지의 og:image(알라딘은 cover500)를 받아 `assets/covers/<글 파일이름>.jpg`로 저장하고, front matter에 `cover: /assets/covers/….jpg`, `cover_from: 알라딘`, `buy: <상품 페이지 주소>`를 적는다. 표지 아래에 "표지 이미지: 알라딘"이 자동으로 붙는다.
 - 사상가 인용문(`<figure class="src">`)의 figcaption이 "칸트, " 또는 "칸트 · "처럼 사상가 이름으로 시작하면 작은 초상이 자동으로 붙는다(`_data/faces.yml`, `assets/faces/*.jpg` 112×112). 글에 인용문으로 등장하는 모든 인물(사상가·저자·화자)에 적용한다. 새 인물이 나오면 위키미디어 공용에서 퍼블릭 도메인 또는 CC 라이선스 이미지를 찾아 라이선스를 확인하고 faces.yml에 항목(match, img, credit, license, url)을 추가한다(112×112 정사각형, 얼굴 중심). 소개 페이지 「이미지 출처」에 자동으로 실린다. 생존 인물처럼 자유 이용 사진이 없으면 img 대신 `initial: 머리글자`로 넣는다(서점·언론 사진을 가져다 쓰지 않는다). 초안 보고에 "○○ 사진은 자유 이용본이 없어 머리글자로 넣었습니다"라고 적어 재형 님이 허락을 구할지 정하게 한다.
+
+## 9. 독자가 쉽게 읽는 글
+- 독자는 고3~대학 1학년 수준으로 본다. 웹에서 한눈에 빨리 읽히게 문장을 짧게 쓰고, 철학 용어(의무에 맞는 행위, 목적들의 나라, 정보주체 등)는 처음 나올 때 쉬운 말로 먼저 풀어 쓴다. '정보의 주인'처럼 뜻이 모호한 말은 쓰지 않는다('정보 당사자', '그 정보의 본인').
+- 사건은 확인된 사실, 여러 사건을 합친 통계, 아직 확인되지 않은 내용을 구분해 쓴다. 서로 다른 수치(예: 피해 인원 468명, 적발 기간 1,135일)를 한 사건에 잇지 않는다. 확인 못 한 사실(직원의 평판, 동기)은 추정해 쓰지 않는다.
+- 사상가의 주장과 필자의 적용을 구분한다("이 생각을 이번 사건에 적용하면 …"). 글라우콘처럼 반론을 세우는 인물은 "이 반론은 …"으로 쓴다.
+- 도식과 표는 화면 폭에 따라 위아래로도 놓이므로 '왼쪽·오른쪽·위·아래'로 가리키지 않고 이름으로 가리킨다. 제도와 윤리처럼 함께 필요한 것을 화살표(→)로 대체 관계처럼 그리지 않는다.
+- 법령 출처는 국가법령정보센터, 기사는 연도를 함께 적는다(옛 기사는 2014.10.17처럼).

diff --git a/_items/2026-10-16/1.md b/_items/2026-10-16/1.md
@@ -35,7 +35,7 @@ sources:
 <blockquote>
 <p>구조적이고 적극적인 평화는 억압을 자유로, 착취를 평등으로 대체하는 데서 성립한다. 또한 강요 대신 대화를, 분리 대신 통합을, 분열 대신 결속을, 소외 대신 참여를 지향함으로써 사회 구조 자체를 평화롭게 재편하려는 상태를 의미한다.</p>
 </blockquote>
-<figcaption>갈퉁, 『평화적 수단에 의한 평화』(강종일 외 옮김, 들녘, 2000) · 『윤리 사상가로 읽는 통합사회』(길벗) 274쪽 수록</figcaption>
+<figcaption>갈퉁, 『평화적 수단에 의한 평화』(강종일 외 옮김, 들녘) · 『윤리 사상가로 읽는 통합사회』(길벗) 274쪽</figcaption>
 </figure>
 
 <figure class="fig">
@@ -58,11 +58,11 @@ sources:
 <figure class="src">
 <p class="vs-head">응보주의 · 칸트</p>
 <blockquote><p>공적 정의가 형벌의 기준으로 삼는 것은, 어떤 종류의 형벌이며 또 어느 정도의 형벌인가? 그 기준은 다름 아니라, 어느 한쪽으로 치우치지 않는 동등성, 곧 평등의 원리에 있다.</p></blockquote>
-<figcaption>칸트, 『윤리 형이상학』(백종현 옮김, 아카넷, 2012) · 『윤리 사상가로 읽는 통합사회』(길벗) 194쪽 수록</figcaption>
+<figcaption>칸트, 『윤리 형이상학』(백종현 옮김, 아카넷) · 『윤리 사상가로 읽는 통합사회』(길벗) 194쪽</figcaption>
 </figure>
 <figure class="src">
 <p class="vs-head">공리주의 · 벤담</p>
 <blockquote><p>형벌은 언제나 하나의 해악이며, 그 자체로 악이다. 그러므로 공리의 원칙에 따르면, 형벌이 허용될 수 있다면 그것은 오직 더 큰 악을 방지하거나 제거하리라고 보장하는 한에서만 허용되어야 한다.</p></blockquote>
-<figcaption>벤담, 『도덕과 입법의 원칙에 대한 서론』(강준호 옮김, 아카넷, 2013) · 『윤리 사상가로 읽는 통합사회』(길벗) 202쪽 수록</figcaption>
+<figcaption>벤담, 『도덕과 입법의 원칙에 대한 서론』(강준호 옮김, 아카넷) · 『윤리 사상가로 읽는 통합사회』(길벗) 202쪽</figcaption>
 </figure>
 </div>

diff --git a/_items/2026-10-16/3.md b/_items/2026-10-16/3.md
@@ -35,12 +35,12 @@ sources:
 <figure class="src">
 <p class="vs-head">밀</p>
 <blockquote><p>개인의 행위 가운데 사회가 정당하게 책임을 물을 수 있는 것은, 오직 그 행위가 타인과 관련되는 경우에 한정된다. 순전히 자기 자신에게만 관계되는 영역에서는, 개인의 독립성은 온전히 보장되어야 한다. 개인은 자신의 몸과 정신에 대해 스스로 주권을 지닌 존재이다.</p></blockquote>
-<figcaption>밀, 『자유론』 제1장 · 『윤리 사상가로 읽는 통합사회』(길벗) 180쪽 수록</figcaption>
+<figcaption>밀, 『자유론』 제1장 · 『윤리 사상가로 읽는 통합사회』(길벗) 180쪽</figcaption>
 </figure>
 <figure class="src">
 <p class="vs-head">칸트</p>
 <blockquote><p>만약 그가, 힘겨운 상태에서 벗어나기 위해 그 자신을 파괴하는 것이라면, 그는 자신의 인격을, 생이 끝날 때까지 견딜 만한 상태로 보존하기 위한, 한낱 수단으로 이용하는 것이다. 그러나 인간은 물건이 아니고, 그러니까 한낱 수단으로 사용될 수 있는 어떤 것이 아니며, 오히려 그의 모든 행위에 있어 항상 목적 그 자체로 보아야 한다.</p></blockquote>
-<figcaption>칸트, 『윤리형이상학 정초』(백종현 옮김, 아카넷) IV429</figcaption>
+<figcaption>칸트, 『윤리형이상학 정초』(백종현 옮김, 아카넷)</figcaption>
 </figure>
 </div>
 

diff --git a/_items/2026-10-16/2.md b/_items/2026-10-16/2.md
@@ -33,14 +33,14 @@ sources:
 <blockquote>
 <p>행위자는 자신의 행위에 책임을 져야 한다. 비록 원인이 악행이 아니었다 해도, 그리고 결과가 예정되거나 의도된 것이 아니라고 해도 저지른 피해를 보상해야 한다.</p>
 </blockquote>
-<figcaption>요나스, 『책임의 원칙』 · 『윤리문제 탐구』(길벗) 132쪽 수록</figcaption>
+<figcaption>요나스, 『책임의 원칙』 · 『윤리문제 탐구』(길벗) 132쪽</figcaption>
 </figure>
 
 <figure class="src">
 <blockquote>
 <p>아직 존재하고 있지는 않지만 존재할 것으로 기대되는 미래 세대의 권리에 관하여 우리는 응답할 의무가 있다. 이런 의무 때문에 심각한 결과를 가져올 수 있는 행위를 할 때 우리는 그들에 대해 책임을 져야 한다.</p>
 </blockquote>
-<figcaption>요나스, 『책임의 원칙』 · 『인문학과 윤리』(길벗) 166쪽 수록</figcaption>
+<figcaption>요나스, 『책임의 원칙』 · 『인문학과 윤리』(길벗) 166쪽</figcaption>
 </figure>
 
 칠판에 5개 위험 영역을 적고, 영역마다 "AI가 혼자 결정해도 되는 일"과 "반드시 사람이 확인해야 하는 일"을 모둠별로 나눠 봅니다. 아래 표의 예시 한 줄을 보여 주고 나머지 칸은 학생이 채웁니다.
